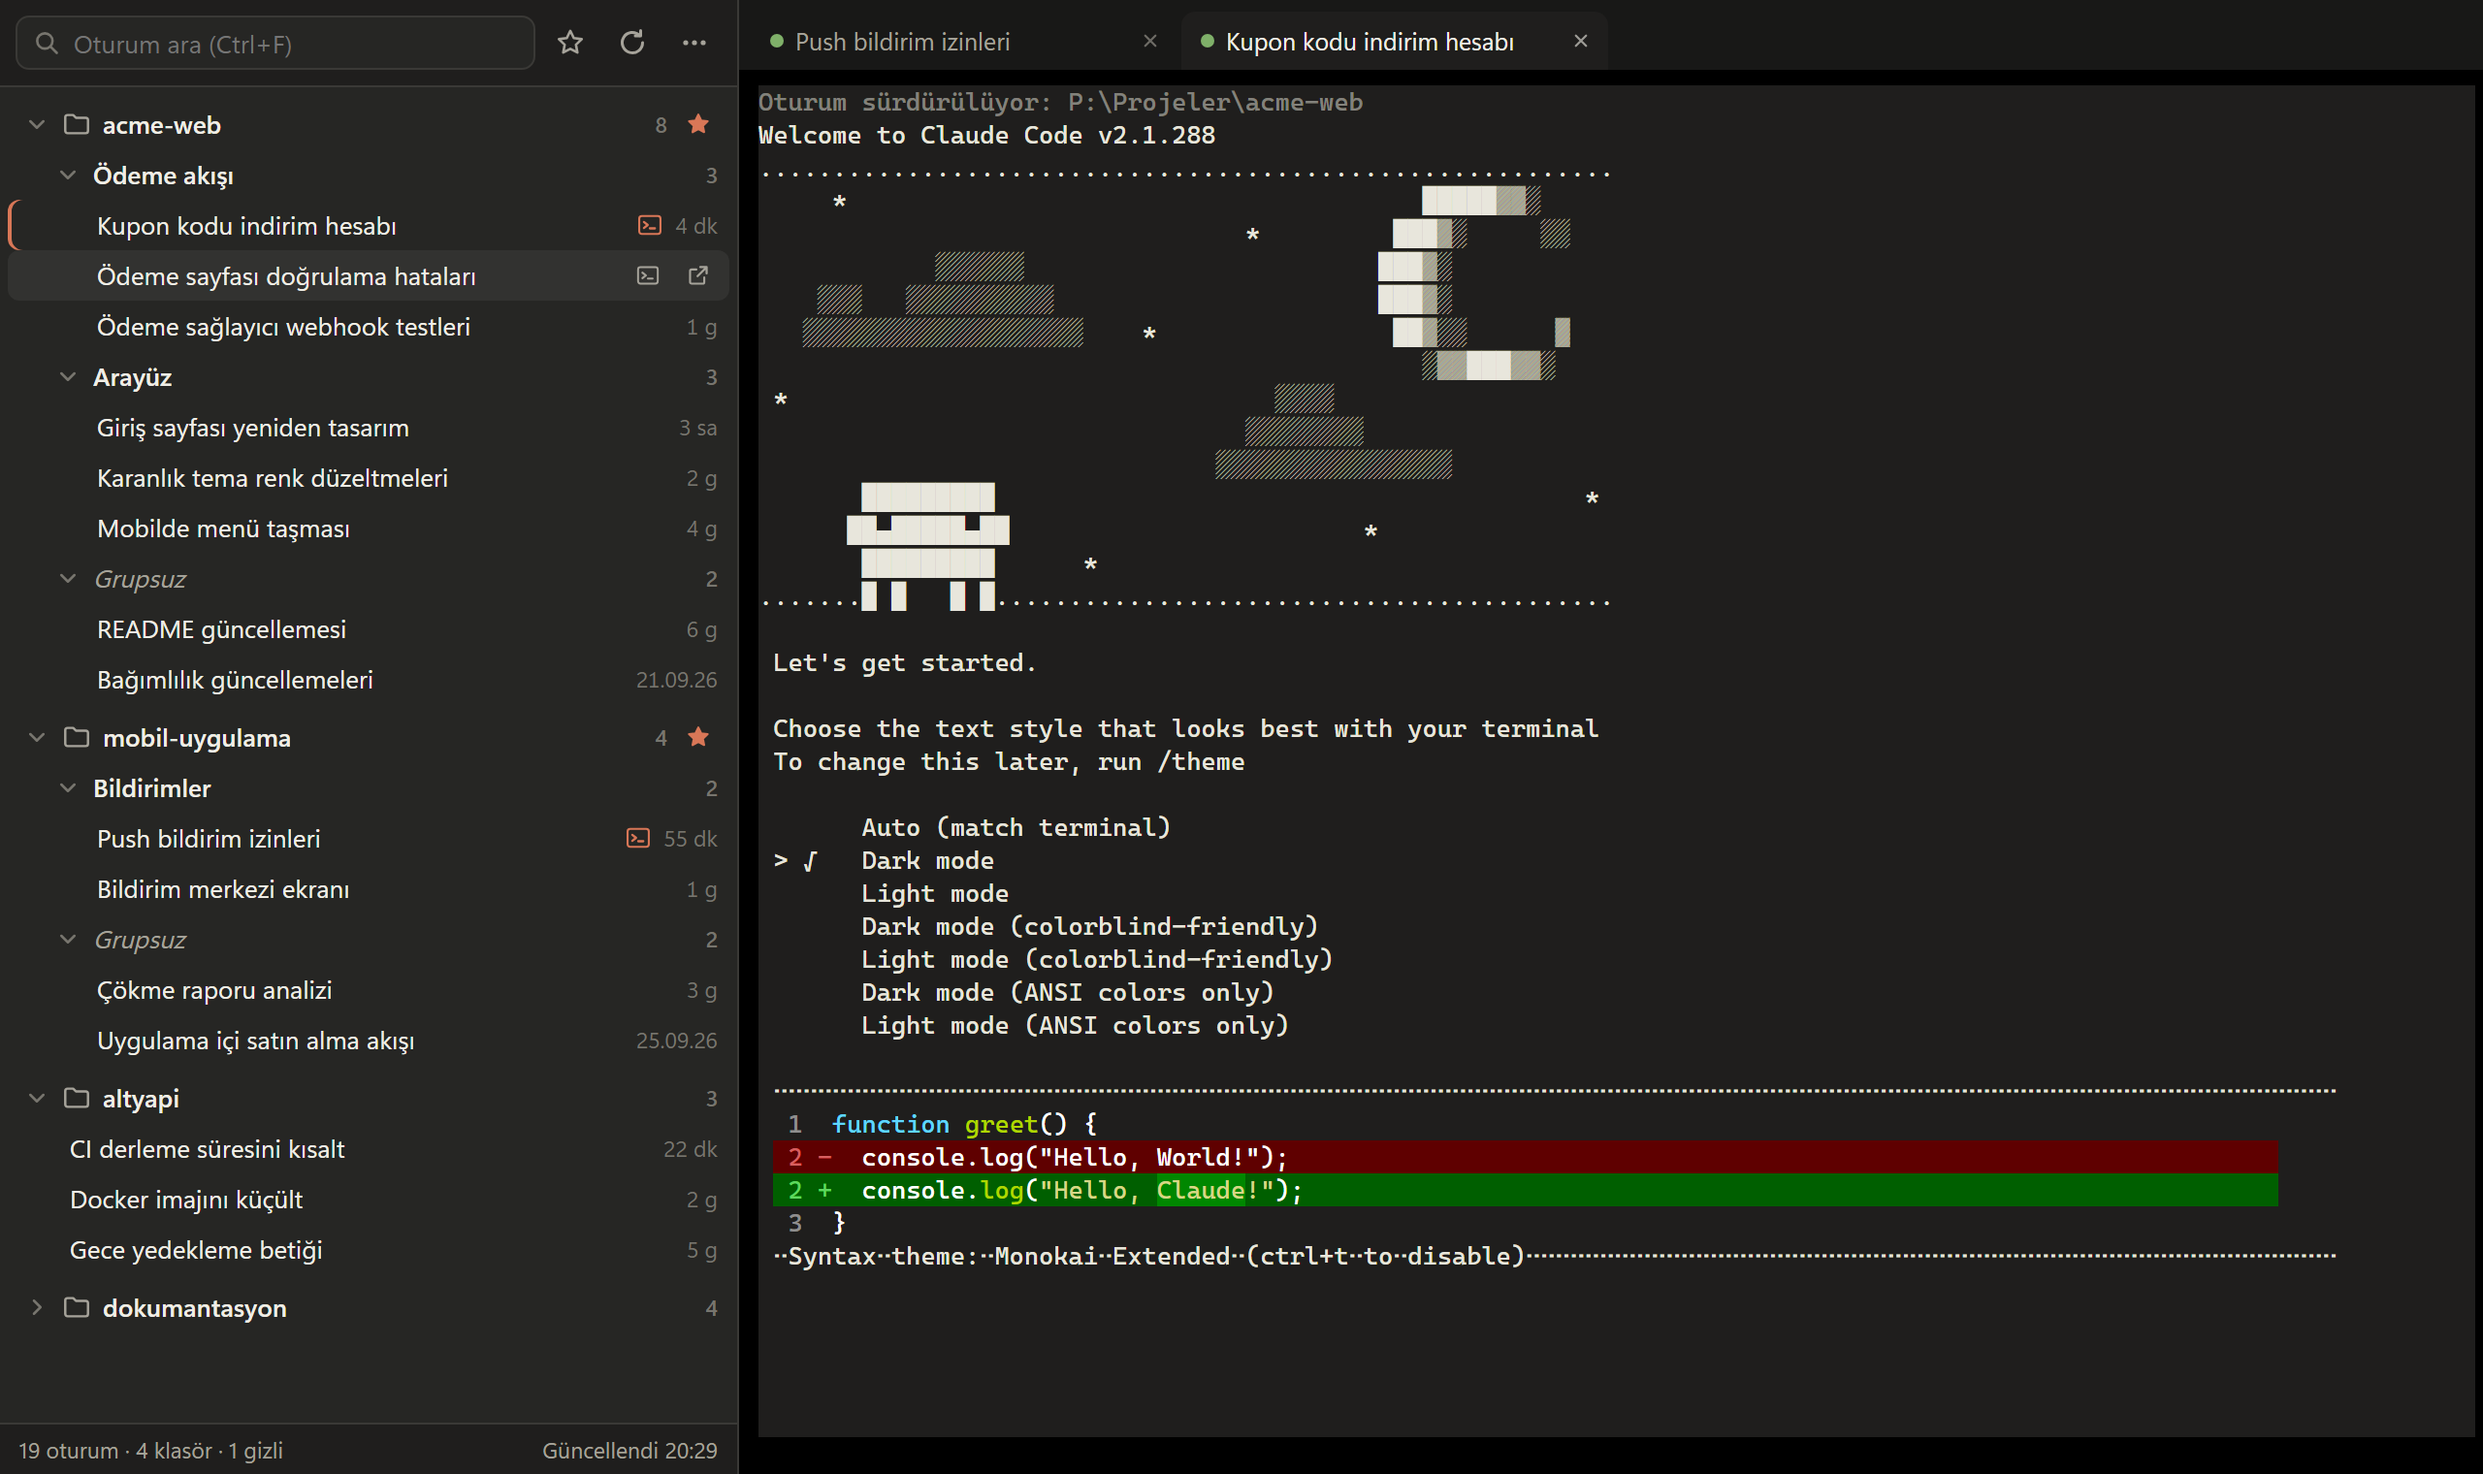
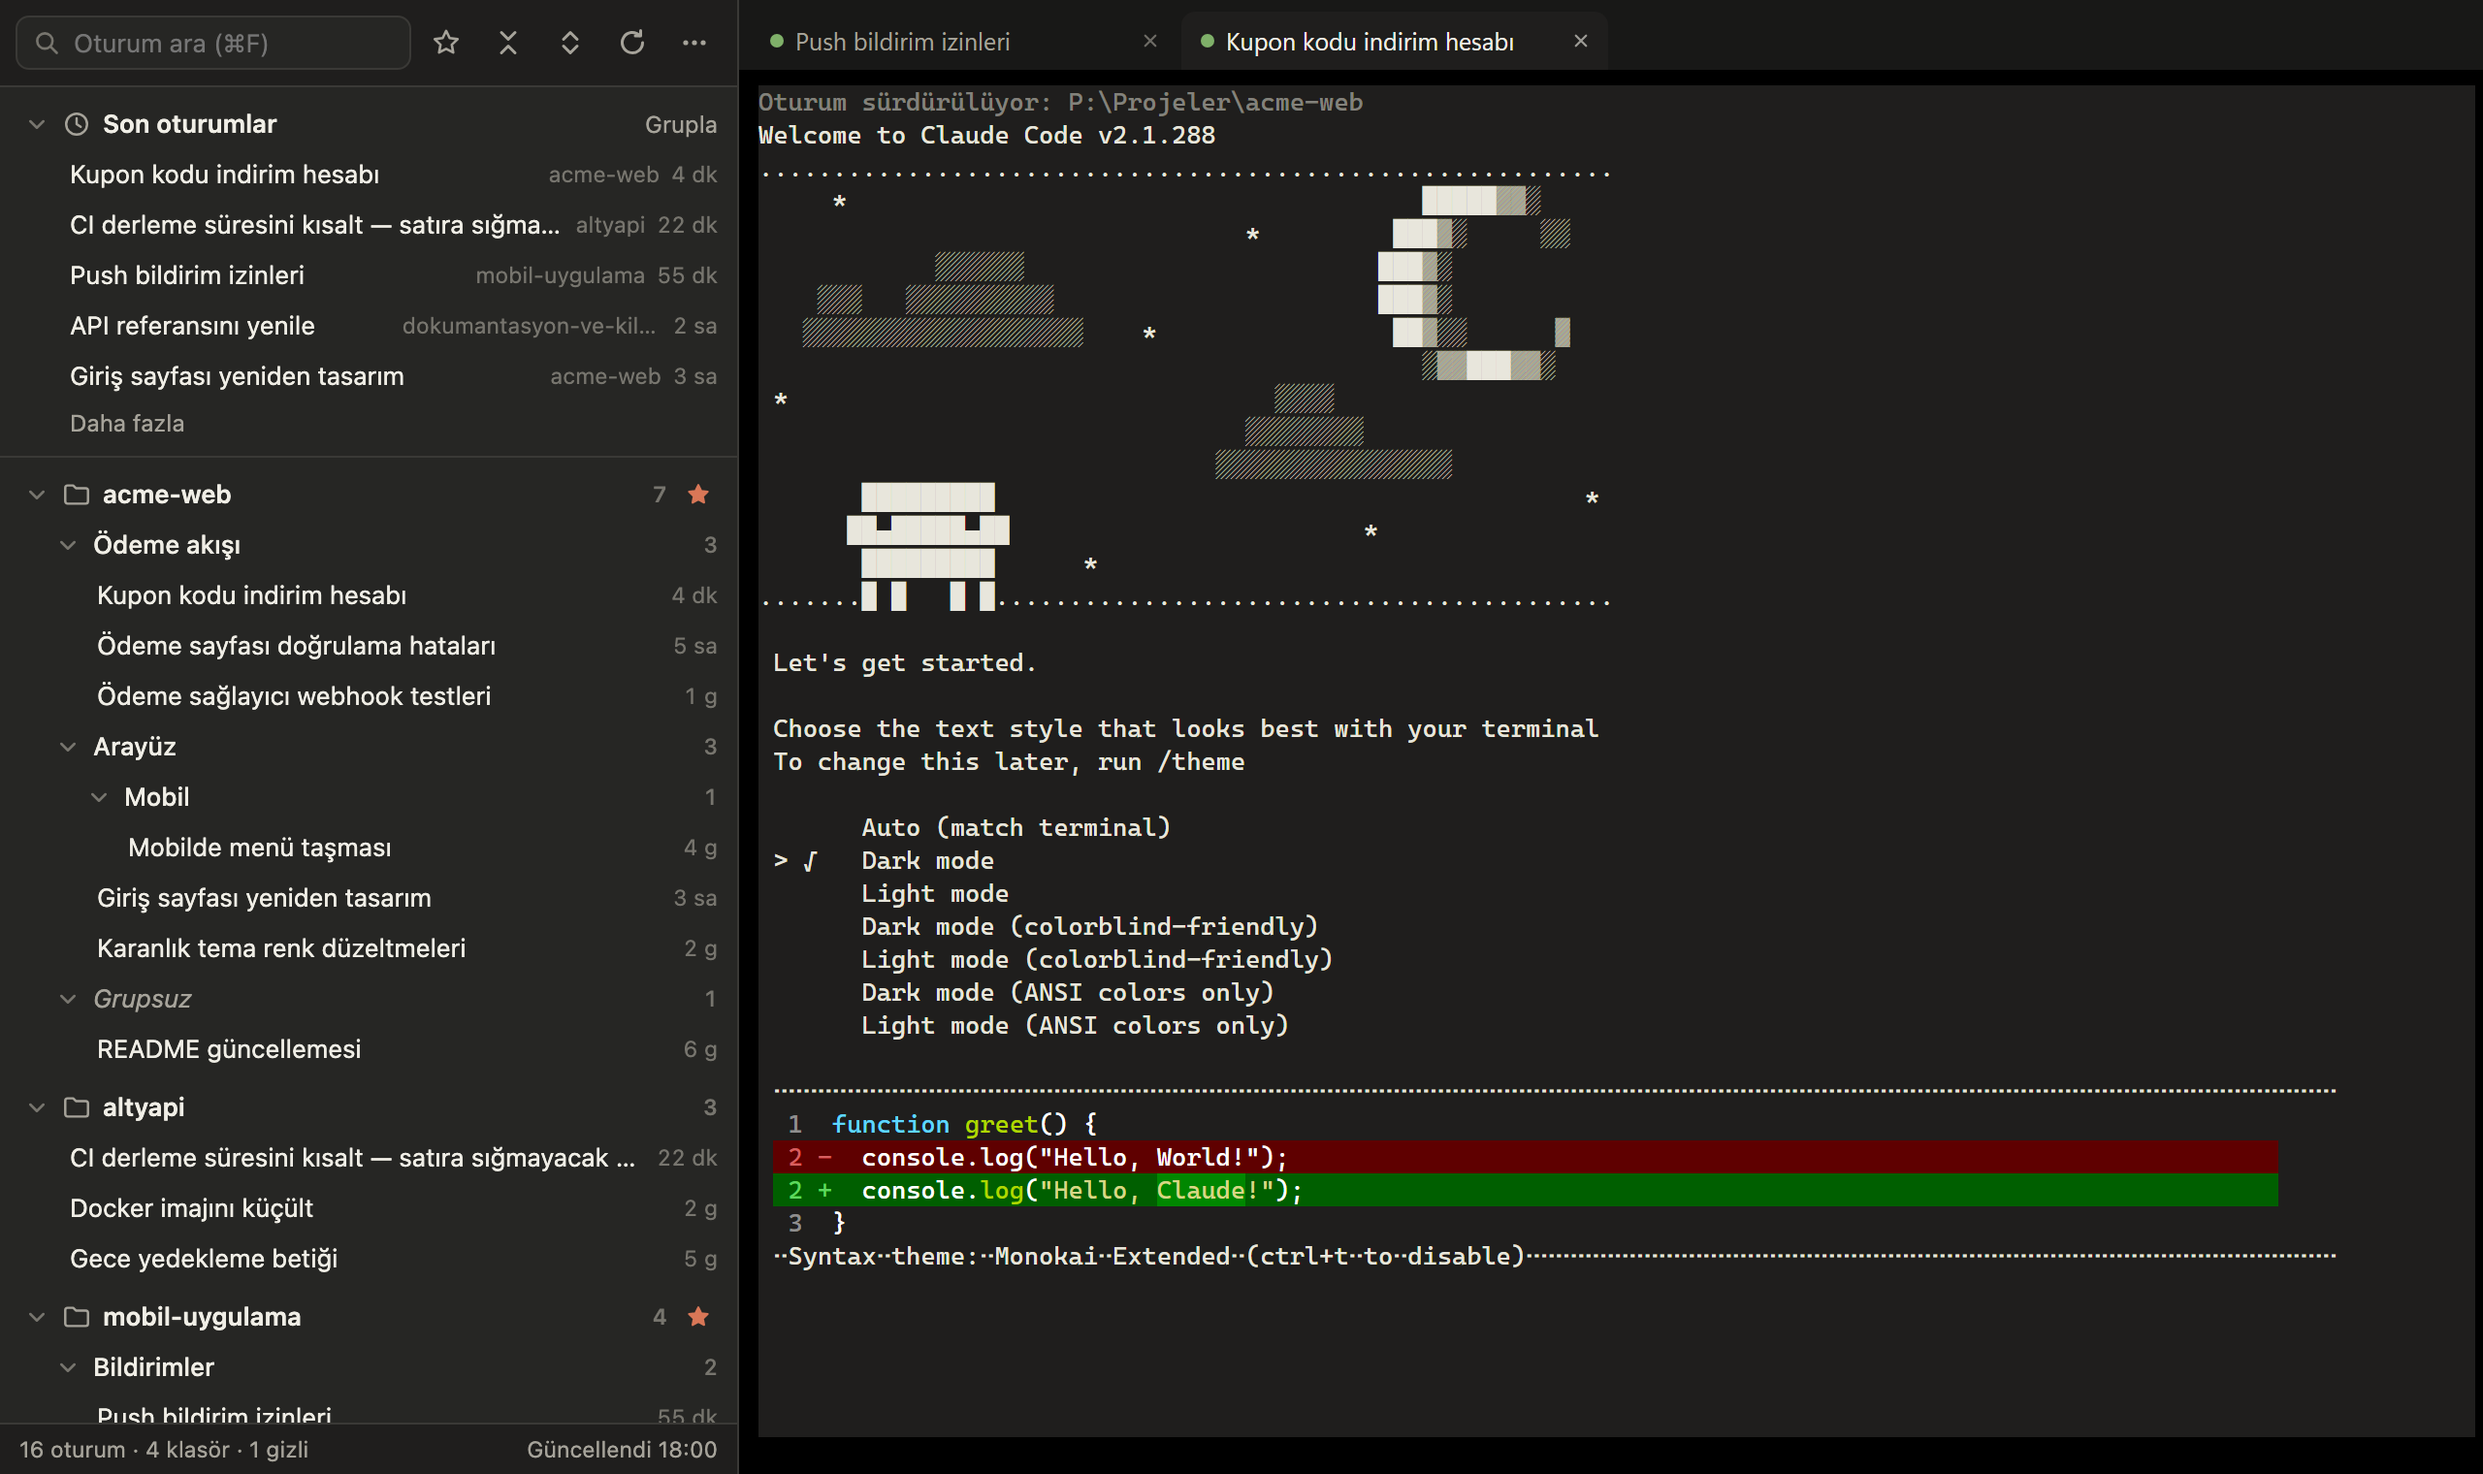
docs: README'de son oturumlar bölümü ve güncel ekran görüntüleri

diff --git a/README.md b/README.md
@@ -4,7 +4,8 @@
 
 # SessionBoard
 
-**Claude Code oturumlarınızı klasöre ve gruba ayıran, istediğiniz sırada tutan pencere.**
+**Claude Code oturumlarınızı klasöre ve gruba ayıran, son çalıştıklarınızı hep en üstte tutan,
+kaldığınız yerden terminalde sürdürmenizi sağlayan pencere.**
 
 Windows ve macOS için · Claude masaüstü uygulamasının yanında çalışır · Ücretsiz ve açık kaynak
 
@@ -23,6 +24,23 @@ Windows ve macOS için · Claude masaüstü uygulamasının yanında çalışır
 </div>
 
 ## Öne çıkanlar
+
+### Son oturumlar hep en üstte
+
+Ağacın üstündeki sabit **Son oturumlar** şeridi, son etkinliği en yeni beş oturumu klasörleri ne olursa
+olsun gösterir; ağaç kaysa da yerinde kalır. Sıralama oturum dosyasının değişme zamanına değil,
+konuşmadaki **son mesajın** zamanına göre yapılır; böylece Claude'un arka planda dosyaya eklediği
+kayıtlar eski oturumları yanlışlıkla öne çıkarmaz.
+
+- **Daha fazla** listeyi beşer beşer uzatır, **Daha az** son beşe döner.
+- **Grupla** oturumları klasörlerine göre toplar; her klasör grubu ayrı daraltılır, yanındaki
+  simgelerle hepsi birden daraltılıp genişletilir.
+- Şeridin başlığına tıklayınca tümüyle katlanır; tercihleriniz hatırlanır.
+
+<p align="center">
+  <img src="docs/screenshots/recent.png" width="49%" alt="Son oturumlar şeridi: son beş oturum, yanlarında klasör adı ve son etkinlik zamanı; altında Daha fazla">
+  <img src="docs/screenshots/recent-grouped.png" width="49%" alt="Son oturumlar klasöre göre gruplanmış: acme-web, altyapi, daraltılmış mobil-uygulama; başlıkta daralt/genişlet simgeleri ve Grupla">
+</p>
 
 ### Her klasör kendi ağacında
 
@@ -62,9 +80,8 @@ değişmez.
 
 ### Ve dahası
 
-- **Son oturumlar:** son etkinliği en yeni beş oturum, klasörleri ne olursa olsun ağacın üstünde sabit
-  durur; ağaç kaysa da kaybolmaz. *Daha fazla* ile beşer beşer uzar, *Daha az* ile son beşe döner;
-  *Grupla* ile klasörlerine göre toplanır, her klasör grubu ayrı daraltılır.
+- **Tümünü daralt / genişlet:** üst çubukta, favori ve yenile düğmelerinin yanında; tek tıkla bütün
+  ağacı katlar ya da açar.
 - **Arama:** Ctrl+F (macOS'ta ⌘F); Türkçe karakterlere duyarsız (`cetele` → *Çetele*), başlıkta ve dal adında arar.
 - **Klasör birleştirme:** projeyi başka bir klasöre taşıdıysanız eski klasörde kalan oturumları yenisinin
   altında toplayın; istediğinizde ayırın.
@@ -91,7 +108,12 @@ sıralarınız kurulumdan etkilenmez.
 **macOS 11 ve sonrası (Apple Silicon ve Intel):** `SessionBoard_<sürüm>_universal.dmg` dosyasını indirip
 açın, SessionBoard'u **Uygulamalar** klasörüne sürükleyin. Paket Apple tarafından onaylı (notarize)
 olmadığı için ilk açılışta macOS "açılamıyor" der: **Sistem Ayarları › Gizlilik ve Güvenlik**'te en altta
-**Yine de Aç** (*Open Anyway*) düğmesine basın; bu bir kez gerekir.
+**Yine de Aç** (*Open Anyway*) düğmesine basın; bu bir kez gerekir. Ya da Terminal'de karantina
+işaretini kaldırın:
+
+```bash
+xattr -dr com.apple.quarantine /Applications/SessionBoard.app
+```
 
 **Gerekenler.** Claude masaüstü uygulaması; oturum listesi onun kayıtlarından okunur. Kayıtların yeri
 kuruluma göre değişiyor; SessionBoard onu kendisi bulur, bulamazsa *⋯ › Oturum klasörünü seç…* ile
